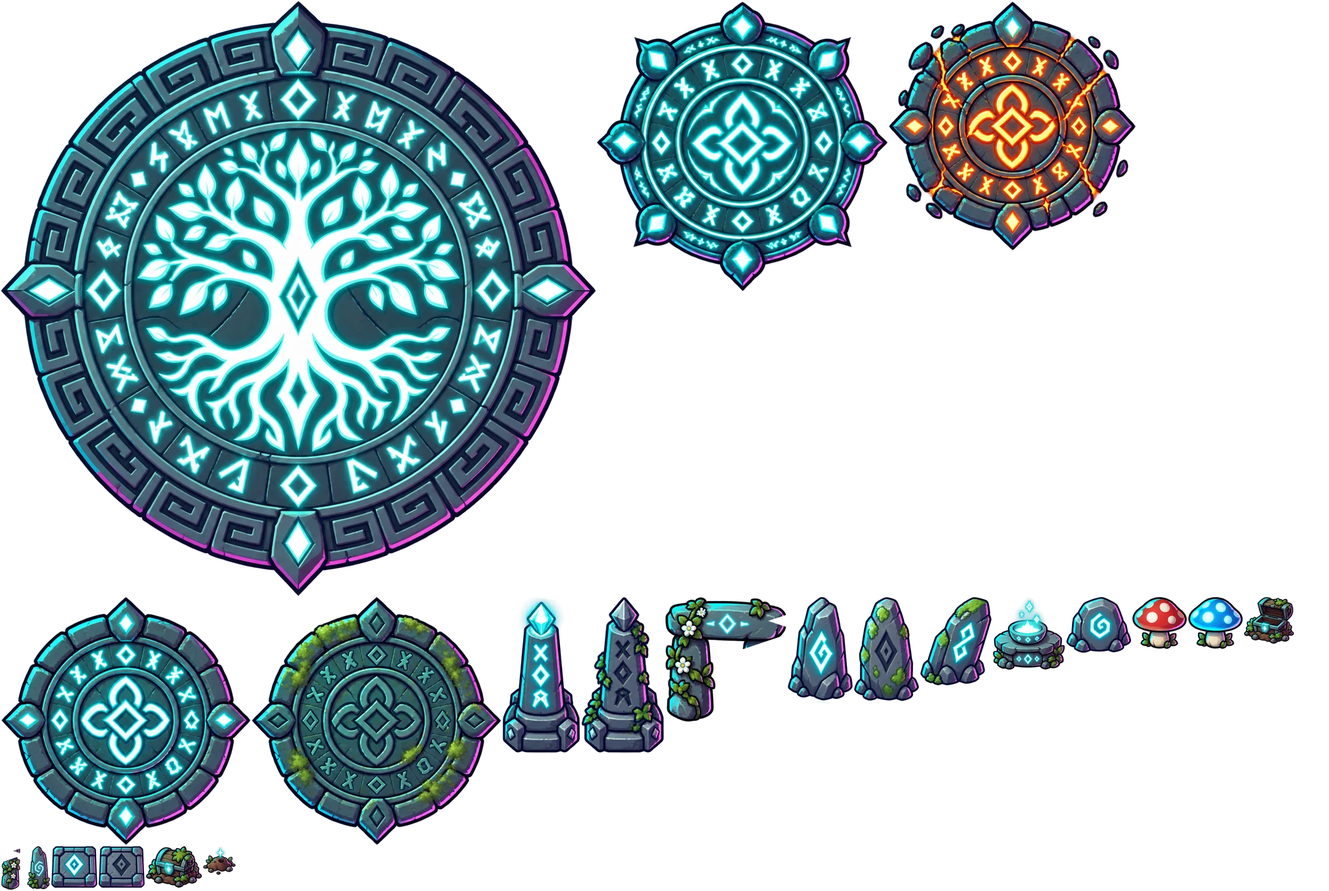
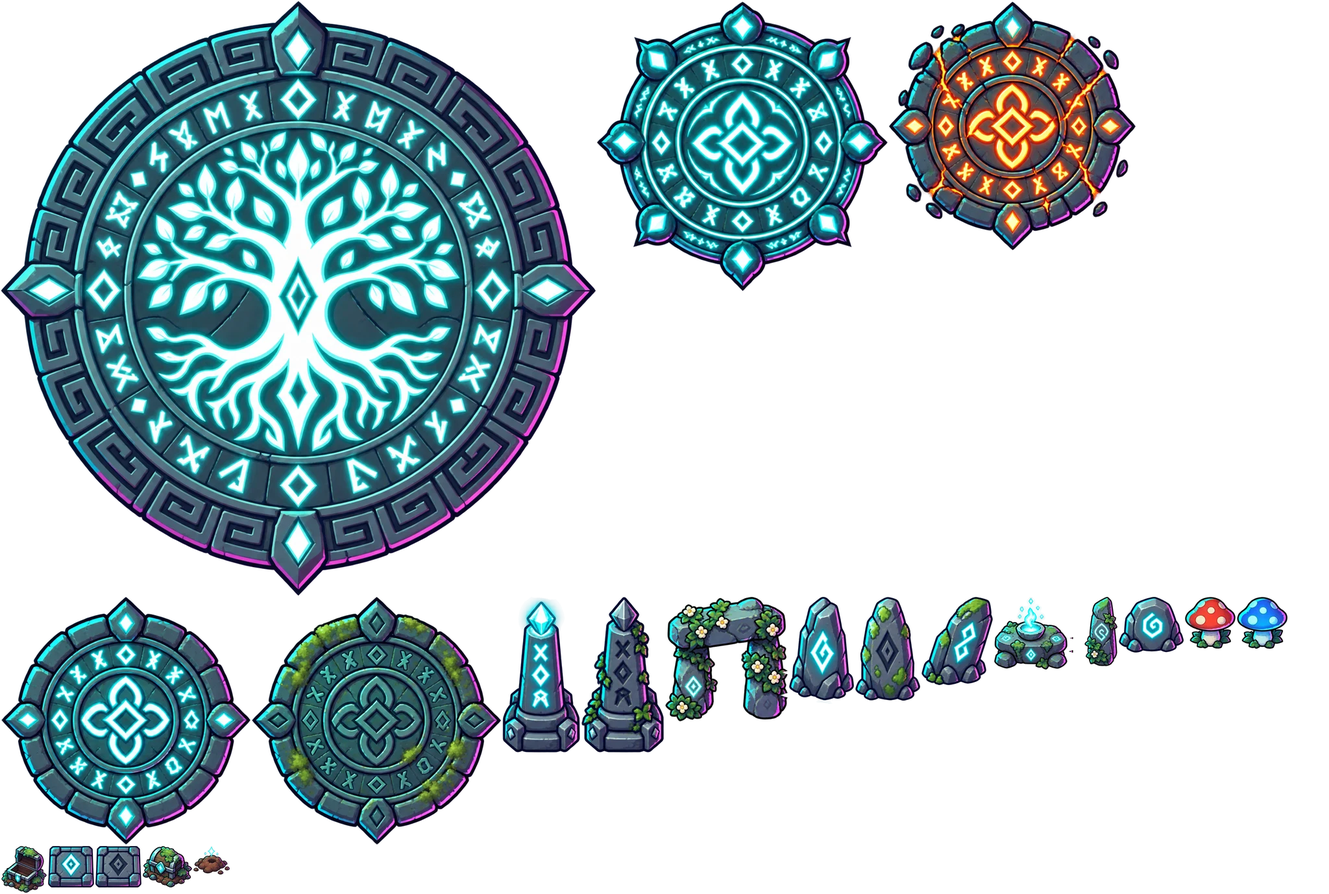
Round 34: armor as a share, boss hit floor, familiars follow the hero's lead, ward share, shield cap, rune-of-return death
- ZDiff.armor / ZDiff.hit: damage = attack x 100 / (100 + armorK x defense); armorK, bossHit, famBoss per difficulty
- familiars strike only engaged monsters (FAM_LEAD); area skills hurt only those
- ward absorbs up to a share of max health (cap 40 %); shield block capped at 50 %
- death screen default: design 6; henge sheet re-cut
- tests/test_round34.py (13 checks)

Claude-Session: https://claude.ai/code/session_01FdX1b6AxCqebDsLDVhkvCj

diff --git a/src/js/09d-familiars.js b/src/js/09d-familiars.js
@@ -18,7 +18,14 @@ var FAM_BY_SEC={1:'fam_grass',2:'fam_water',3:'fam_earth',4:'fam_fire'};
 var FAM_ICON={grass:'🌿',water:'💧',earth:'🪨',fire:'🔥'};
 Object.keys(SPIRIT_ELEMENTS).forEach(function(k){ SPIRIT_ELEMENTS[k].key=k; });
 // every familiar hit is source 'familiar' (monster counters in 07rb): kind proj | area, element, which familiar
-function _famHit(scene,fid,E,S,m,dmg,o){ return _heroHitMonster(scene,m,dmg,Object.assign({src:'familiar',el:E.key,fk:S.kind==='proj'?'proj':'area',fid:fid},o||{})); }
+// Round 34 (Kris) — "follow my lead": familiars strike only monsters the hero is fighting. A monster is ENGAGED when the hero hit it or it hit the hero
+// (mon._engT) in the last FAM_LEAD.secs seconds and it is within FAM_LEAD.far of him; a boss stays engaged for the whole fight once the first blow has landed.
+// A familiar's target must also be within FAM_LEAD.range of the hero. Familiar hits never engage anything. FAM_LEAD.on=false gives the old free-for-all.
+var FAM_LEAD={on:true,secs:5,range:220,far:350};
+function _famEngaged(m,c){ if(!FAM_LEAD.on)return true; if(!m||m.dead||!m._engT)return false; var d=_hbD(m,c.x,c.y); if(d>FAM_LEAD.far)return false; return !!(m.isBoss||(m.def&&m.def.boss))||Date.now()-m._engT<FAM_LEAD.secs*1000; }
+function _famTargets(c){ return c.monsters.filter(function(m){ return !m.dead&&_famEngaged(m,c)&&(!FAM_LEAD.on||_hbD(m,c.x,c.y)<=FAM_LEAD.range); }); }
+// familiar damage to a boss is cut by the difficulty's share (ZDIFF famBoss: 0.6 / 0.5 / 0.4 / 0.3)
+function _famHit(scene,fid,E,S,m,dmg,o){ if(m&&(m.isBoss||(m.def&&m.def.boss))&&typeof ZDiff!=='undefined')dmg*=ZDiff.cur().famBoss; return _heroHitMonster(scene,m,dmg,Object.assign({src:'familiar',el:E.key,fk:S.kind==='proj'?'proj':'area',fid:fid},o||{})); }
 // (skills: FAM_SKILLS in 07w-spirits.js, shared with the Lab)
 // ── data: the 4 familiars (names/looks follow the Lab pick) ──
 Object.keys(FAMILIARS).forEach(function(k){ delete FAMILIARS[k]; });
@@ -138,7 +145,7 @@ function _famFx(scene,m,S,E,mult){ if(m.dead)return; var f=S.fx;
   else if(f==='knock'||f==='push'){ var a=Math.atan2(m.y-scene._famOy,m.x-scene._famOx); for(var st=0,mv=0;mv<(f==='push'?80:45);mv+=6){ var nx=m.x+Math.cos(a)*6, ny=m.y+Math.sin(a)*6; if(!_heroMonsterCanStand(scene,nx,ny))break; m.x=nx; m.y=ny; } if(m.cont)m.cont.setPosition(m.x,m.y); m._lastX=m.x; m._lastY=m.y; }
   else if(f==='pull'){ var d=Math.hypot(scene._famOx-m.x,scene._famOy-m.y)||1, k=Math.min(60,d-24)/d; if(k>0){ var nx2=m.x+(scene._famOx-m.x)*k, ny2=m.y+(scene._famOy-m.y)*k; if(_heroMonsterCanStand(scene,nx2,ny2)){ m.x=nx2; m.y=ny2; if(m.cont)m.cont.setPosition(m.x,m.y); m._lastX=m.x; m._lastY=m.y; } } } }
 function _famRing(scene,x,y,r,col,dur){ var g=scene.add.circle(x,y,8,hexNum(col),0.35).setStrokeStyle(3,hexNum(col),0.9).setDepth(12.6); scene.tweens.add({targets:g,radius:r,alpha:0,duration:dur||450,onComplete:function(){ g.destroy(); }}); }
-function _famCast(scene,fid,S,v,c,ps,mult,E){ var mons=c.monsters.filter(function(m){ return !m.dead; }), dmg=(S.dmg||0)*mult; scene._famOx=c.x; scene._famOy=c.y;
+function _famCast(scene,fid,S,v,c,ps,mult,E){ var mons=_famTargets(c), dmg=(S.dmg||0)*mult; scene._famOx=c.x; scene._famOy=c.y;
   if(S.kind==='proj'){ var t=_famNearest(c,mons,v,S.range,scene); if(!t)return false;
     if(!scene._famProj2)scene._famProj2=[]; var a=Math.atan2(t.y-v.y,t.x-v.x), sp=S.pierce?420:320;
     var dot=scene.add.image(v.x,v.y,'glow').setBlendMode(Phaser.BlendModes.ADD).setTint(hexNum(E.col)).setScale(S.fx==='splash'?0.3:0.2).setDepth(12.7), core=(typeof ZShot!=='undefined'&&ZShot.make(scene,ZShot.famKind(E),v.x,v.y,a,12.71,S.fx==='splash'?0.85:0.6))||scene.add.circle(v.x,v.y,S.fx==='splash'?5:3,hexNum(E.core),1).setDepth(12.71);
@@ -152,7 +159,7 @@ function _famCast(scene,fid,S,v,c,ps,mult,E){ var mons=c.monsters.filter(functio
     if(S.heal&&!_heroInCombat(ps))_famHeal(scene,c,ps,S.heal); return true; }
   if(S.kind==='heal'){ if(ps.hp>=ps.maxHp||ps.hp<=0||_heroInCombat(ps))return false; var n=S.ticks||1, i=0; var tick=function(){ if(ps.hp>0&&!_heroInCombat(ps))_famHeal(scene,_heroCtx(scene),ps,S.pct); }; tick();
     if(n>1)scene.time.addEvent({delay:1000,repeat:n-2,callback:tick}); return true; }
-  if(S.kind==='ward'){ var st=ps._famWard||(ps._famWard={}); if(st[fid]&&st[fid].ready)return false; st[fid]={ready:true,col:E.col,name:S.name}; _heroFloat(scene,c.x,c.y-36,'✨ '+S.name,E.col); return true; }
+  if(S.kind==='ward'){ var st=ps._famWard||(ps._famWard={}); if(st[fid]&&st[fid].ready)return false; st[fid]={ready:true,col:E.col,name:S.name,pct:_famWardPct(ps,fid,S)}; _heroFloat(scene,c.x,c.y-36,'✨ '+S.name,E.col); return true; }
   if(S.kind==='rain'){ var ts=mons.filter(function(m){ return _hbD(m,c.x,c.y)<=S.range&&_heroLOS(scene,c.x,c.y,_hbP(m,c.x,c.y).x,_hbP(m,c.x,c.y).y); }); if(!ts.length)return false; ts.sort(function(a,b){ return Math.hypot(a.x-c.x,a.y-c.y)-Math.hypot(b.x-c.x,b.y-c.y); });
     for(var k=0;k<S.n;k++){ (function(t2,delay){ var x=t2.x+(k?(Math.random()-0.5)*40:0), y=t2.y+(k?(Math.random()-0.5)*40:0); var rock=scene.add.circle(x-40,y-160,9,hexNum(E.deep),1).setStrokeStyle(2,hexNum(E.col),1).setDepth(12.7);
       scene.tweens.add({targets:rock,x:x,y:y,duration:420,delay:delay,ease:'Quad.easeIn',onComplete:function(){ rock.destroy(); _famRing(scene,x,y,S.rad,E.col,300); if(scene.cameras&&scene.cameras.main)scene.cameras.main.shake(90,0.004);
@@ -172,9 +179,12 @@ var FAM_COMBAT_S=6;
 function _heroInCombat(ps){ return !!(ps&&ps._cbT&&Date.now()-ps._cbT<FAM_COMBAT_S*1000); }
 function _heroCombatMark(ps){ if(ps)ps._cbT=Date.now(); }
 function _famHeal(scene,c,ps,pct){ var h=Math.max(1,Math.round(ps.maxHp*pct)); ps.hp=Math.min(ps.maxHp,ps.hp+h); _heroFloat(scene,c.x,c.y-30,'+'+h+' HP','#80ff90'); var ws=_heroWS(); if(ws&&ws._emitUI)ws._emitUI(); }
-// wards: refund the next hit
+// Round 34 (Kris): a ward no longer swallows a whole hit. It absorbs up to a share of the hero's max health: 12 % + 3 % per familiar level
+// (15 % at level 1, 30 % at level 6) + 2 % for each step the ward skill sits up the familiar's skill list, never more than 40 %.
+function _famWardPct(ps,fid,S){ var L=_famLevel(ps,fid), list=FAM_SKILLS[FAM_EL[fid]]||[], i=Math.max(0,list.indexOf(S)); return Math.min(0.4,0.12+0.03*L+0.02*i); }
+// wards: give back part of the next hit
 function _famWardTick(scene,c,ps,dt){ if(ps._cbHp!==undefined&&ps.hp<ps._cbHp&&ps.hp>0)_heroCombatMark(ps); ps._cbHp=ps.hp; var st=ps._famWard; if(!st){ ps._famLastHp=ps.hp; return; } var ready=Object.keys(st).filter(function(k){ return st[k]&&st[k].ready&&_heroFamiliarActive(ps,k)&&_famSt(k).ko<=0&&_famActiveSkills(ps,k).some(function(o){ return o.S.kind==='ward'; }); });
-  if(ready.length&&ps._famLastHp!==undefined&&ps.hp<ps._famLastHp&&ps.hp>0&&!ps.godMode){ var lost=ps._famLastHp-ps.hp; ps.hp=ps._famLastHp; var w=st[ready[0]]; w.ready=false; _heroFloat(scene,c.x,c.y-36,'🛡 '+w.name+' blocked '+lost,w.col); }
+  if(ready.length&&ps._famLastHp!==undefined&&ps.hp<ps._famLastHp&&ps.hp>0&&!ps.godMode){ var lost=ps._famLastHp-ps.hp, w=st[ready[0]], back=Math.min(lost,Math.max(1,Math.round(ps.maxHp*(w.pct||0.15)))); ps.hp+=back; w.ready=false; _heroFloat(scene,c.x,c.y-36,'🛡 '+w.name+' absorbed '+back+(back<lost?' of '+lost:''),w.col); }
   ps._famLastHp=ps.hp;
   if(ready.length){ var col=st[ready[0]].col; if(!scene._famBubble||!scene._famBubble.active)scene._famBubble=scene.add.circle(c.x,c.y-12,22,hexNum(col),0.1).setStrokeStyle(1.5,hexNum(col),0.7).setDepth(12.6); scene._famBubble.setPosition(c.x,c.y-12).setAlpha(0.7+0.3*Math.sin(Date.now()/300)); }
   else if(scene._famBubble){ scene._famBubble.destroy(); scene._famBubble=null; } }
@@ -187,7 +197,7 @@ function _famHudTick(scene,fams,ps,dt){ scene._famHudT=(scene._famHudT||0)-dt; i
     return '<div class="fh'+(st.ko>0?' out':'')+'" style="border-color:'+E.col+'" title="'+f.n+(S?' — special: '+S.name+' (change it in the familiar card, N → ⓘ)':'')+(_famSlotK(ps,fid)<1?' — slot '+(_heroActiveFamiliars(ps).indexOf(fid)+1)+': hits at '+Math.round(_famSlotK(ps,fid)*100)+'% (each extra familiar hits softer)':'')+'" onclick="showFamiliarInfo(\''+fid+'\')"><span class="ic">'+f.icon+'</span><span class="tx"><b>'+(S?S.name:f.n)+(_famSlotK(ps,fid)<1?' <small style="opacity:.7">'+Math.round(_famSlotK(ps,fid)*100)+'%</small>':'')+'</b>'+state+'</span><i style="width:'+Math.round((1-pct)*100)+'%;background:'+E.col+'"></i></div>'; }).join(''); }
 function _heroSeaSprite(){}   // (old Sea Sprite passive — now the water spirit's Tide Ward)
 // projectiles (pierce + follow)
-function _heroFamProjTick(scene,dt){ if(!scene._famProj2||!scene._famProj2.length)return; var mons=_heroCtx(scene).monsters;
+function _heroFamProjTick(scene,dt){ if(!scene._famProj2||!scene._famProj2.length)return; var cx0=_heroCtx(scene), mons=cx0.monsters.filter(function(m){ return _famEngaged(m,cx0); });      // a shot in flight passes through monsters the hero is not fighting
   scene._famProj2=scene._famProj2.filter(function(p){ p.life-=dt; var kill=function(){ p.vis.destroy(); p.glow.destroy(); return false; };
     if(p.life<=0||!p.vis.active)return kill();
     if(p.tgt&&!p.tgt.dead){ var a=Math.atan2(p.tgt.y-p.y,p.tgt.x-p.x), sp=Math.hypot(p.vx,p.vy); p.vx=Math.cos(a)*sp; p.vy=Math.sin(a)*sp; }

diff --git a/src/js/04g-difficulty.js b/src/js/04g-difficulty.js
@@ -8,15 +8,24 @@
 // ═══════════════════════════════════════════════════════════════════════
 var ZDIFF=[
   {id:'hearthside',name:'Hearthside',icon:'🔥',tag:'A tale told by the fire',text:'Gentler foes, smaller packs and slower bosses with long warnings. For a first journey.',
-   bossHp:0.75,bossDmg:0.8,tele:1.25,every:1.25,speed:0.9,waves:0,stand:0.15,stag:0.8, monHp:0.8,monDmg:0.8,count:0.8,guards:-1,alphaAt:9,kin:0,reward:1},
+   bossHp:0.75,bossDmg:0.8,tele:1.25,every:1.25,speed:0.9,waves:0,stand:0.15,stag:0.8, monHp:0.8,monDmg:0.8,count:0.8,guards:-1,alphaAt:9,kin:0,reward:1, armorK:2,bossHit:0.07,famBoss:0.6},
   {id:'wayfarer',name:'Wayfarer',icon:'🧭',tag:'The road as it was meant to be walked',text:'The balanced journey: the game as it has played until now.',
-   bossHp:1,bossDmg:1,tele:1,every:1,speed:1,waves:0,stand:0.15,stag:1, monHp:1,monDmg:1,count:1,guards:0,alphaAt:5,kin:0,reward:1},
+   bossHp:1,bossDmg:1,tele:1,every:1,speed:1,waves:0,stand:0.15,stag:1, monHp:1,monDmg:1,count:1,guards:0,alphaAt:5,kin:0,reward:1, armorK:1.5,bossHit:0.10,famBoss:0.5},
   {id:'shieldbearer',name:'Shieldbearer',icon:'🛡',tag:'For proven warriors',text:'Bosses have half again the health, warn less and strike sooner. Monsters are tougher and come in bigger packs.',
-   bossHp:1.5,bossDmg:1.25,tele:0.85,every:0.85,speed:1.1,waves:0,stand:0.2,stag:1.15, monHp:1.3,monDmg:1.2,count:1.25,guards:1,alphaAt:4,kin:1,reward:1.15},
+   bossHp:1.5,bossDmg:1.25,tele:0.85,every:0.85,speed:1.1,waves:0,stand:0.2,stag:1.15, monHp:1.3,monDmg:1.2,count:1.25,guards:1,alphaAt:4,kin:1,reward:1.15, armorK:1.2,bossHit:0.13,famBoss:0.4},
   {id:'ragnarok',name:'Ragnarök',icon:'🌋',tag:'The twilight of the realms',text:'Bosses have more than twice the health, barely warn, add an extra wave to their attacks and make their last stand early. Monsters hit hard and swarm.',
-   bossHp:2.2,bossDmg:1.5,tele:0.7,every:0.7,speed:1.2,waves:1,stand:0.3,stag:1.3, monHp:1.7,monDmg:1.45,count:1.5,guards:2,alphaAt:3,kin:2,reward:1.3}
+   bossHp:2.2,bossDmg:1.5,tele:0.7,every:0.7,speed:1.2,waves:1,stand:0.3,stag:1.3, monHp:1.7,monDmg:1.45,count:1.5,guards:2,alphaAt:3,kin:2,reward:1.3, armorK:1,bossHit:0.16,famBoss:0.3}
 ];
+// Round 34 (Kris): armor takes a SHARE of each hit instead of a fixed amount, so no monster is ever reduced to nothing and no armor makes a boss harmless.
+//   armorK   how much each point of defense counts: damage = attack × 100 / (100 + armorK × defense). Wayfarer with the best armor of realms 1–4
+//            (defense 24 / 42 / 62 / 85) lets through 74 / 61 / 52 / 44 % of a hit.
+//   bossHit  a boss's plain hit (× 1) always costs at least this share of the hero's max health, whatever he wears; a heavier attack costs in
+//            proportion (a × 1.3 slam 1.3 times as much, a × 0.25 aura tick a quarter), up to × 2.5.
+//   famBoss  how much of a familiar's damage a boss takes.
 var ZDiff={
+  armor:function(raw,def){ return raw*100/(100+ZDiff.cur().armorK*Math.max(0,def||0)); },
+  // the damage of one hit on the hero: raw attack, his defense, his max health, and for a boss how heavy the attack is (its multiple of the boss's attack; 0 = not a boss)
+  hit:function(raw,def,maxHp,bossM){ var d=ZDiff.armor(raw,def); if(bossM>0&&maxHp>0)d=Math.max(d,maxHp*ZDiff.cur().bossHit*Math.min(2.5,bossM)); return Math.max(1,Math.round(d)); },
   ps:function(){ try{ var ws=typeof _heroWS==='function'?_heroWS():null; return ws&&ws.playerState; }catch(e){ return null; } },
   lv:function(ps){ ps=ps||ZDiff.ps(); var d=ps&&ps.difficulty; return (d===0||d===1||d===2||d===3)?d:1; },
   cur:function(ps){ return ZDIFF[ZDiff.lv(ps)]; },

diff --git a/src/js/10-scene-world.js b/src/js/10-scene-world.js
@@ -1067,7 +1067,7 @@ class WorldScene extends Phaser.Scene{
       if(Math.hypot(pr.x-px,pr.y-py)<18&&!pr.hit&&(self.worldIFrames||0)<=0&&!self.playerState.godMode){
         pr.hit=true;pr.life=0;pr.vis.destroy();
         var def=self.calcPlayerStats().def;
-        var dmg=Math.max(1,pr.dmg-def+Math.floor(Math.random()*3));
+        var dmg=ZDiff.hit(pr.dmg+Math.floor(Math.random()*3),def,self.playerState.maxHp,0);
         dmg=self._applyShieldToDmg(dmg);
         if(dmg<=0){return false;}
         self.playerState.hp=Math.max(0,self.playerState.hp-dmg);
@@ -1252,7 +1252,7 @@ class WorldScene extends Phaser.Scene{
           // Damage scales down heavily for weak enemies: sec1→~1, sec2→~1-2, sec3→~2-3, boss→normal
           var baseAtk=mon.monAtk!==undefined?mon.monAtk:mdef.atk;
           var rawDmg=isBossType?Math.round(baseAtk*0.8):Math.ceil(baseAtk*0.2);
-          var dmg0=Math.max(1,rawDmg-def0+Math.floor(Math.random()*2));
+          var dmg0=ZDiff.hit(rawDmg+Math.floor(Math.random()*2),def0,self.playerState.maxHp,isBossType?0.8:0); mon._engT=Date.now(); self.playerState._lastFoe=mdef.name;
           if(!isBossType&&dmg0>3)dmg0=Math.ceil(dmg0*0.5); // hard cap for non-boss
           dmg0=self._applyShieldToDmg(dmg0);
           if(dmg0<=0){self._emitUI();return;}
@@ -1281,7 +1281,7 @@ class WorldScene extends Phaser.Scene{
           if(dist<90&&!self.playerState.godMode&&(self.worldIFrames||0)<=0){
             var def0s=self.calcPlayerStats().def;
             var effAtkS=mon.monAtk!==undefined?mon.monAtk:mdef.atk;
-            var dmgS=Math.max(1,Math.ceil(effAtkS*0.6)-def0s+Math.floor(Math.random()*2));
+            var dmgS=ZDiff.hit(Math.ceil(effAtkS*0.6)+Math.floor(Math.random()*2),def0s,self.playerState.maxHp,mdef.boss?0.6:0); mon._engT=Date.now(); self.playerState._lastFoe=mdef.name;
             dmgS=self._applyShieldToDmg(dmgS);
             if(dmgS<=0){self._emitUI();return;}
             self.playerState.hp=Math.max(0,self.playerState.hp-dmgS);
@@ -1304,7 +1304,7 @@ class WorldScene extends Phaser.Scene{
           var def=self.calcPlayerStats().def;
           var effAtk=mon.monAtk!==undefined?mon.monAtk:mdef.atk;
           var baseDmg=effAtk*0.4;
-          var dmg=Math.max(1,Math.ceil(baseDmg)-def+Math.floor(Math.random()*2));
+          var dmg=ZDiff.hit(Math.ceil(baseDmg)+Math.floor(Math.random()*2),def,self.playerState.maxHp,mdef.boss?0.4:0); mon._engT=Date.now(); self.playerState._lastFoe=mdef.name;
           if(!mdef.boss&&dmg>4)dmg=Math.ceil(dmg*0.5);
           dmg=self._applyShieldToDmg(dmg);
           if(dmg<=0){self._emitUI();return;}
@@ -1585,7 +1585,7 @@ class WorldScene extends Phaser.Scene{
     if(!ps.equip||!ps.equip.shield)return rawDmg;
     var si=ITEMS[ps.equip.shield]; if(!si)return rawDmg;
     var sdef=si.def||0;
-    var blockChance=0.15+sdef*0.02; // 15% + 2% per DEF point
+    var blockChance=Math.min(0.5,0.15+sdef*0.02); // 15% + 2% per DEF point, never more than half (round 34)
     if(Math.random()<blockChance){
       this._floatText(this.player.x,this.player.y-42,'🛡 BLOCKED!','#88ffcc');
       this._shieldFlash(true);

diff --git a/src/js/07w-spirits.js b/src/js/07w-spirits.js
@@ -220,18 +220,18 @@ var FAM_SKILLS={
     {name:'Healing Bloom',kind:'heal',cd:9,pct:0.06,text:'A flower of light opens at your feet and heals you 6% of your max health.'},
     {name:'Vine Snare',kind:'nova',cd:8,dmg:6,radius:110,fx:'root',t:2,text:'Vines burst from the ground around you and hold every enemy nearby for 2 s.'},
     {name:'Spore Cloud',kind:'nova',cd:7,dmg:4,radius:95,fx:'poison',t:4,text:'Releases glowing spores that poison enemies around you for 4 s.'},
-    {name:'Bark Ward',kind:'ward',cd:18,text:'A shell of living bark blocks the next hit you take (recharges in 18 s).'},
+    {name:'Bark Ward',kind:'ward',cd:18,text:'A shell of living bark absorbs the next hit you take, up to 15–40 % of your max health — more as the familiar grows (recharges in 18 s).'},
     {name:'Wild Growth',kind:'nova',cd:14,dmg:18,radius:150,fx:'root',t:1.5,heal:0.1,text:'The meadow rises: heavy damage to every enemy around you, roots them, and heals you 10%.'}],
   water:[
     {name:'Water Bolt',kind:'proj',cd:2.2,dmg:7,range:270,fx:'slow',t:2,text:'A bolt of water that slows the target by 40%.'},
-    {name:'Tide Ward',kind:'ward',cd:20,text:'A bubble blocks the next hit you take (recharges in 20 s).'},
+    {name:'Tide Ward',kind:'ward',cd:20,text:'A bubble absorbs the next hit you take, up to 15–40 % of your max health — more as the familiar grows (recharges in 20 s).'},
     {name:'Whirlpool',kind:'nova',cd:8,dmg:6,radius:130,fx:'pull',text:'A whirlpool drags nearby enemies in toward you and hurts them.'},
     {name:'Frost Lance',kind:'proj',cd:5,dmg:12,range:320,fx:'freeze',t:1.2,pierce:true,text:'A lance of ice that pierces a line of enemies and freezes them.'},
     {name:'Rain of Renewal',kind:'heal',cd:22,pct:0.03,ticks:5,text:'Soft rain heals you 3% every second for 5 s.'},
     {name:'Tidal Wave',kind:'wave',cd:13,dmg:20,len:220,wid:70,fx:'push',text:'A great wave rolls out where you face, crushing and pushing back everything in its path.'}],
   earth:[
     {name:'Stone Shard',kind:'proj',cd:2.6,dmg:9,range:240,fx:'knock',text:'Hurls a shard of stone that knocks the target back.'},
-    {name:'Stone Skin',kind:'ward',cd:14,text:'Your skin turns to stone: blocks the next hit (recharges in 14 s).'},
+    {name:'Stone Skin',kind:'ward',cd:14,text:'Your skin turns to stone: absorbs the next hit, up to 15–40 % of your max health — more as the familiar grows (recharges in 14 s).'},
     {name:'Quake',kind:'nova',cd:9,dmg:9,radius:115,fx:'stun',t:1.2,text:'Stamps the ground: enemies nearby are stunned.'},
     {name:'Boulder Toss',kind:'rain',cd:7,dmg:16,n:1,rad:55,range:280,text:'Lobs a boulder that smashes a group of enemies.'},
     {name:'Crystal Spikes',kind:'nova',cd:10,dmg:14,radius:140,fx:'slow',t:2,text:'A ring of crystal spikes erupts around you, hurting and slowing enemies.'},

diff --git a/src/js/09-monster-engine.js b/src/js/09-monster-engine.js
@@ -56,7 +56,8 @@ MX.A=function(scene){ if(scene._mxA)return scene._mxA; var W=_isOverworld(scene)
   A.float=function(x,y,t,c){ scene._floatText(x,y,t,c); };
   A.god=function(){ return !!A.ps().godMode; };
   A.hurt=function(raw,label,col,noIfr){ var ps=A.ps(); if(ps.godMode||ps.hp<=0)return false; if(!noIfr&&A.ifr()>0)return false; var P=A.p();
-    var S=MX.S(scene), df=(W?scene.calcPlayerStats().def:(calcStatsFromState(ps).def||0))||0, dmg=Math.max(1,Math.round(raw)-Math.floor(df*0.6)); if(S.markT>0)dmg=Math.ceil(dmg*1.25);
+    var S=MX.S(scene), df=(W?scene.calcPlayerStats().def:(calcStatsFromState(ps).def||0))||0, src=MX.striker(A), bm=src&&src.isBoss&&src.def&&src.def.atk>0?raw/src.def.atk:0, dmg=ZDiff.hit(raw,df,ps.maxHp,bm); if(S.markT>0)dmg=Math.ceil(dmg*1.25);
+    if(src){ src._engT=Date.now(); ps._lastFoe=src.def&&src.def.name; }      // the one who struck is now engaged (familiars may answer) and is named if the hero falls
     if(!noIfr)dmg=W?scene._applyShieldToDmg(dmg):_heroApplyShield(scene,ps,dmg,P.x,P.y); if(dmg<=0){ A.setIfr(0.4); return false; }
     ps.hp=Math.max(0,ps.hp-dmg); if(!noIfr)A.setIfr(0.6); A.float(P.x,P.y-30,'-'+dmg+(label?' '+label:''),col||'#ff4433');
     if(!noIfr){ var fl=document.getElementById('damage-flash'); if(fl){ fl.style.opacity='0.18'; clearTimeout(scene._flashT); scene._flashT=setTimeout(function(){fl.style.opacity='0';},300); } }
@@ -391,3 +392,9 @@ MX.overlay=function(scene,S){ var el=document.getElementById('mx-status'); if(!e
   var bl=S.blindT>0, sh=S.shrinkT>0, rv=S.revT>0;
   el.style.background=bl?'radial-gradient(circle at 50% 50%, rgba(0,0,0,0) 12%, rgba(5,5,15,.92) 34%)':rv?'radial-gradient(circle at 50% 50%, rgba(0,0,0,0) 55%, rgba(200,120,255,.22) 100%)':'none';
   var hero=scene.player?scene.player.sprite:scene.pSprite, small=sh||S.frogT>0; if(hero&&hero.setScale){ if(small){ if(hero._mxBase===undefined)hero._mxBase=hero.scaleX; hero.setScale(hero._mxBase*0.7); } else if(hero._mxBase!==undefined){ hero.setScale(hero._mxBase); hero._mxBase=undefined; } } };
+
+// Round 34: who is striking the hero right now? The monster whose turn is being run (MX.tick), else — for shots in flight, zones and timed boss
+// patterns — the boss of the fight if one is awake, else the nearest awake monster within 400 px.
+MX.striker=function(A){ if(MX._cur&&!MX._cur.dead)return MX._cur; var L=[], P; try{ L=A.list()||[]; P=A.p(); }catch(e){ return null; } var best=null, bd=400;
+  for(var i=0;i<L.length;i++){ var m=L[i]; if(!m||m.dead||!m._m||!m._m.aggro)continue; if(m.isBoss)return m; var d=Math.hypot(m.x-P.x,m.y-P.y); if(d<bd){ bd=d; best=m; } } return best; };
+(function(){ var t0=MX.tick; MX.tick=function(scene,mon,dt){ MX._cur=mon; try{ return t0(scene,mon,dt); } finally{ MX._cur=null; } }; })();

diff --git a/src/js/04h-scenery.js b/src/js/04h-scenery.js
@@ -38,7 +38,7 @@ var ZScn={
   // how much has arrived: [files in, files in all]
   progress:function(){ return [(ZScn._tot||0)-Math.max(0,ZScn._n||0),ZScn._tot||0]; },
   whenReady:function(f,ms){ if(ZScn.done||ZScn.off)return f(); var fired=false, go=function(){ if(!fired){ fired=true; f(); } }; ZScn._cb.push(go); setTimeout(go,ms||2500); ZScn.load(); },
-  SKIP:{rn_henge_tri:1,rn_henge_post:1},      // pieces whose sheet was cut badly (sc_rune_henge: the trilithon is cut in half) — the drawn ones stay until the sheet is redone
+  SKIP:{},      // ids to leave drawn while their sheet is being redone (none now: the henge sheet was re-rolled in round 34)
   has:function(id){ if(ZScn.off||ZScn.SKIP[id])return false; var it=ZScn.META.items[id]; return !!(it&&ZScn.img[it[0]]); },
   // the first of the ids that is painted (variants: pick by a number 0..1)
   pick:function(ids,r){ var L=ids.filter(ZScn.has); return L.length?L[Math.min(L.length-1,Math.floor((r||0)*L.length))]:null; },

diff --git a/src/js/21c-death.js b/src/js/21c-death.js
@@ -71,7 +71,7 @@ var ZDEATH={
 };
 var ZDeath={
   auto:false, busy:false,
-  pick:(function(){ try{ var v=parseInt(localStorage.getItem('zeldara_death'),10); return v>=1&&v<=10?v:1; }catch(e){ return 1; } })(),
+  pick:(function(){ try{ var v=parseInt(localStorage.getItem('zeldara_death'),10); return v>=1&&v<=10?v:6; }catch(e){ return 6; } })(),      // Kris chose design 6, the rune of return (round 34)
   set:function(n){ ZDeath.pick=Math.max(1,Math.min(ZDEATH.LOOKS.length,n|0)); try{ localStorage.setItem('zeldara_death',String(ZDeath.pick)); }catch(e){} },
   look:function(n){ return ZDEATH.LOOKS[(n||ZDeath.pick)-1]||ZDEATH.LOOKS[0]; },
   _cap:function(s){ s=String(s||''); return s.charAt(0).toUpperCase()+s.slice(1); },

diff --git a/src/js/12-scene-dungeon.js b/src/js/12-scene-dungeon.js
@@ -1296,7 +1296,7 @@ class DungeonScene extends Phaser.Scene{
     var ps=this.worldScene.playerState;
     if(ps.godMode)return;
     var def=calcStatsFromState(ps).def||0;
-    var dmg=Math.max(1,mon.def.atk-def+Math.floor(Math.random()*4-1));
+    var dmg=ZDiff.hit(mon.def.atk+Math.floor(Math.random()*4-1),def,ps.maxHp,(mon.isBoss||mon.def.boss)?1:0); mon._engT=Date.now(); ps._lastFoe=mon.def.name;
     dmg=_heroApplyShield(this, ps, dmg, this.px, this.py);
     if(dmg<=0){this.playerIFrames=0.5;return;}
     ps.hp=Math.max(0,ps.hp-dmg);this.playerIFrames=0.9;

diff --git a/src/js/02-hero-api.js b/src/js/02-hero-api.js
@@ -261,7 +261,7 @@ function _heroApplyShield(scene, ps, rawDmg, x, y){
   if(!ps.equip||!ps.equip.shield)return rawDmg;
   var si=ITEMS[ps.equip.shield]; if(!si)return rawDmg;
   var sdef=si.def||0;
-  var blockChance=0.15+sdef*0.02;
+  var blockChance=Math.min(0.5,0.15+sdef*0.02);      // never more than half (round 34)
   if(Math.random()<blockChance){
     if(scene._floatText)scene._floatText(x,y-42,'🛡 BLOCKED!','#88ffcc');
     _heroShieldFlash(scene,x,y,true);

diff --git a/tests/test_round34.py b/tests/test_round34.py
@@ -1,0 +1,61 @@
+"""Round 34 — Kris's combat choices: armor takes a share of each hit (per difficulty); a boss's hit always costs a set share of max health;
+familiars follow the hero's lead; a ward absorbs a share of max health (at most 40 %); shield block capped at 50 %; familiars do less to
+bosses (per difficulty); the death screen is the rune of return.   Run: python tests/test_round34.py"""
+import sys, os, json
+sys.path.insert(0, os.path.dirname(__file__))
+from harness import game
+res = []
+def check(n, ok, info=''):
+    res.append(bool(ok)); print(('PASS ' if ok else 'FAIL ') + n + ('  ' + str(info)[:460] if info != '' else ''), flush=True)
+with game(painted=False, lead=True) as g:
+    g.wait(1500)
+    r = g.js("""(()=>{ var ws=game.scene.getScene('World'), ps=ws.playerState, o={}; o.tab=ZDIFF.map(function(D){ return [D.armorK,D.bossHit,D.famBoss]; });
+      o.share=[24,42,62,85].map(function(d){ return Math.round(ZDiff.armor(100,d)); }); o.weak=ZDiff.hit(3,85,215,0); o.none=ZDiff.hit(20,0,100,0);
+      o.boss=[1,1.3,0.25,9].map(function(m){ return ZDiff.hit(28*m,90,215,m); }); o.bossNaked=ZDiff.hit(9,0,56,1);
+      o.lv=[0,1,2,3].map(function(L){ ps.difficulty=L; return [ZDiff.hit(28,85,215,0),ZDiff.hit(28,85,215,1)]; }); ps.difficulty=1; return o; })()""")
+    check('Difficulty table: armor counts for less and a boss hit for more as the level rises; familiars do less to bosses', r['tab'] == [[2, 0.07, 0.6], [1.5, 0.1, 0.5], [1.2, 0.13, 0.4], [1, 0.16, 0.3]], r['tab'])
+    check('Armor takes a share: the best armor of realms 1–4 lets 74 / 61 / 52 / 44 % through (Wayfarer); a weak monster still hurts a hero in the best armor; no armor = full damage', r['share'] == [74, 61, 52, 44] and r['weak'] >= 1 and r['none'] == 20, r)
+    check('A boss hit costs at least 10 % of max health on Wayfarer, heavier attacks in proportion, aura ticks a quarter; a hit that is bigger than the floor after armor is not reduced to it', r['boss'] == [22, 28, 5, 107] and r['bossNaked'] == 9, r)
+    check('Per difficulty: the same hit through the same armor grows from Hearthside to Ragnarök, and so does the boss floor', [x[0] for x in r['lv']] == sorted(x[0] for x in r['lv']) and r['lv'][0][0] < r['lv'][3][0] and [x[1] for x in r['lv']] == [15, 22, 28, 34], r['lv'])
+    # the real path: a monster's hit through A.hurt
+    r = g.js("""(()=>{ var ws=game.scene.getScene('World'), ps=ws.playerState, A=MX.A(ws), P=ws.player; ps.maxHp=200; ps.hp=200; ps.def=80; ws.worldIFrames=0;
+      var m=MX.spawn(ws,'thistle_hog',P.x+60,P.y,{q:1,temp:true}); ws.worldMonsters.push(m); m._m.aggro=true; var atk=m.def.atk;
+      MX._cur=m; A.hurt(atk,'','#fff'); MX._cur=null; var lost=200-ps.hp, eng=!!m._engT, foe=ps._lastFoe;
+      ps.hp=200; ws.worldIFrames=0; A.setIfr(0); m.isBoss=true; MX._cur=m; A.hurt(atk*1.3,'','#fff'); MX._cur=null; var lostB=200-ps.hp; m.isBoss=false; window._m34=m; ps.def=0; ps.hp=ps.maxHp;
+      return {atk:atk,lost:lost,eng:eng,foe:foe,lostB:lostB,striker:MX.striker(A)===m}; })()""")
+    check('In play: a thistle hog hits a hero with 80 defense for a share of its attack (not 1 by rule), is marked as engaged and named; as a boss its slam costs 13 % of max health', 1 <= r['lost'] <= r['atk'] and r['lost'] == max(1, round(r['atk'] * 100 / 220)) and r['eng'] and r['foe'] and r['lostB'] == 26 and r['striker'], r)
+    # follow my lead
+    r = g.js("""(()=>{ var ws=game.scene.getScene('World'), ps=ws.playerState, P=ws.player, c=_heroCtx(ws), m=window._m34, o={on:FAM_LEAD.on};
+      var far=MX.spawn(ws,'thistle_hog',P.x+300,P.y,{q:1,temp:true}); ws.worldMonsters.push(far); var idle=MX.spawn(ws,'thistle_hog',P.x-70,P.y,{q:1,temp:true}); ws.worldMonsters.push(idle); c=_heroCtx(ws);
+      delete m._engT; o.none=_famTargets(c).length;
+      _heroHitMonster(ws,m,1,{}); o.afterHeroHit=_famTargets(c).indexOf(m)>=0; o.idleLeft=_famTargets(c).indexOf(idle)<0;
+      var hp0=idle._hp; _famHit(ws,'fam_grass',{key:'grass',col:'#fff'},{kind:'proj'},idle,1,{}); o.famHitDoesNotEngage=!idle._engT;
+      m._engT=Date.now()-6000; o.lapsed=_famTargets(c).indexOf(m)<0;
+      far._engT=Date.now(); o.tooFar=_famTargets(c).indexOf(far)<0; far.x=P.x+200; o.inRange=_famTargets(c).indexOf(far)>=0;
+      m.isBoss=true; m._engT=Date.now()-60000; o.bossStays=_famTargets(c).indexOf(m)>=0; m.isBoss=false;
+      FAM_LEAD.on=false; o.offAll=_famTargets(c).length>=3; FAM_LEAD.on=true; window._far=far; window._idle=idle; return o; })()""")
+    check('Follow my lead: familiars have no target until the hero strikes; then only that monster; a familiar\'s own hit engages nothing', r['on'] and r['none'] == 0 and r['afterHeroHit'] and r['idleLeft'] and r['famHitDoesNotEngage'], r)
+    check('Engagement lapses after 5 s without an exchange; a target must be within 220 px of the hero; a boss stays engaged for the fight; the switch restores the old free-for-all', r['lapsed'] and r['tooFar'] and r['inRange'] and r['bossStays'] and r['offAll'], r)
+    r = g.js("""(()=>{ var ws=game.scene.getScene('World'), ps=ws.playerState, c=_heroCtx(ws), m=window._m34, E={key:'grass',col:'#80ff90',core:'#fff'}, S={name:'Thorn',kind:'nova',cd:5,dmg:4,radius:150};
+      [m,window._far,window._idle].forEach(function(x){ delete x._engT; x._hp=x.maxHp; }); ps.familiar='fam_grass'; ps.ownedFamiliars=['fam_grass'];
+      var a=_famCast(ws,'fam_grass',S,{x:c.x,y:c.y},c,ps,1,E); m._engT=Date.now(); var b=_famCast(ws,'fam_grass',S,{x:c.x,y:c.y},_heroCtx(ws),ps,1,E);
+      return {idleCast:a,cast:b,hurtM:m._hp<m.maxHp,idleUntouched:window._idle._hp===window._idle.maxHp}; })()""")
+    check('An area skill does not fire with nothing engaged, and when it fires it hurts only the engaged monster', not r['idleCast'] and r['cast'] and r['hurtM'] and r['idleUntouched'], r)
+    # familiar damage to bosses
+    r = g.js("""(()=>{ var ws=game.scene.getScene('World'), ps=ws.playerState, m=window._m34, E={key:'grass',col:'#fff'}, out=[]; m.monDef=0; if(m.def)m.def.def=0;
+      [1,3].forEach(function(L){ ps.difficulty=L; [false,true].forEach(function(b){ m.isBoss=b; m.maxHp=5000; m._hp=5000; if(m.hp!==undefined)m.hp=5000; _famHit(ws,'fam_grass',E,{kind:'area'},m,100,{pure:true}); out.push(5000-(m._hp!==undefined?m._hp:m.hp)); }); }); ps.difficulty=1; m.isBoss=false; return out; })()""")
+    check('A familiar\'s 100 damage does 100 to a monster and 50 to a boss on Wayfarer, 30 to a boss on Ragnarök', abs(r[0] - 100) <= 3 and abs(r[1] - 50) <= 2 and abs(r[2] - 100) <= 3 and abs(r[3] - 30) <= 2, r)
+    # ward
+    r = g.js("""(()=>{ var ws=game.scene.getScene('World'), ps=ws.playerState, c=_heroCtx(ws), o={}; var W=FAM_SKILLS.grass.filter(function(s){ return s.kind==='ward'; })[0], i=FAM_SKILLS.grass.indexOf(W);
+      ps.famLevels={fam_grass:1}; o.p1=_famWardPct(ps,'fam_grass',W); ps.famLevels={fam_grass:6}; o.p6=_famWardPct(ps,'fam_grass',W); o.cap=Object.keys(FAM_SKILLS).every(function(el){ return FAM_SKILLS[el].every(function(S){ return S.kind!=='ward'||_famWardPct({famLevels:{fam_grass:6,fam_water:6,fam_earth:6,fam_fire:6}},'fam_'+el,S)<=0.4; }); }); o.i=i;
+      ps.maxHp=100; ps.hp=100; ps._famWard={fam_grass:{ready:true,col:'#fff',name:'Bark Ward',pct:0.3}}; ps._famLastHp=100; ps.familiar='fam_grass'; ps.ownedFamiliars=['fam_grass'];
+      var st=_famSt('fam_grass'); st.ko=0; var as=_famActiveSkills; _famActiveSkills=function(){ return [{S:W,i:i}]; }; ps.hp=30; _famWardTick(ws,c,ps,0.016); o.afterBig=ps.hp;
+      ps._famWard.fam_grass.ready=true; ps.hp=100; ps._famLastHp=100; ps.hp=90; _famWardTick(ws,c,ps,0.016); o.afterSmall=ps.hp; _famActiveSkills=as; delete ps._famWard; ps.hp=ps.maxHp; return o; })()""")
+    check('Ward: absorbs a share of max health that grows with the familiar\'s level and never passes 40 %; a 70-point hit through a 30 % ward costs 40, a small hit is absorbed whole', abs(r['p1'] - (0.15 + 0.02 * r['i'])) < 1e-6 and r['p6'] > r['p1'] and r['p6'] <= 0.4 and r['cap'] and r['afterBig'] == 60 and r['afterSmall'] == 100, r)
+    # shield
+    r = g.js("""(()=>{ var ws=game.scene.getScene('World'), ps=ws.playerState, n=0, N=4000; ps.equip.shield='aegis'; ws._shielding=true; var rnd=Math.random, seq=0; Math.random=function(){ seq=(seq+0.6180339887)%1; return seq; };
+      for(var i=0;i<N;i++){ if(ws._applyShieldToDmg(10)===0)n++; } var a=n/N; n=0; for(var j=0;j<N;j++){ if(_heroApplyShield(ws,ps,10,0,0)===0)n++; } Math.random=rnd; ws._shielding=false; delete ps.equip.shield; return [a,n/N,ITEMS.aegis.def]; })()""")
+    check('Shield: the best shield (Aegis, 16 defense: 47 % by the formula) and any stronger one never block more than half the hits', 0.44 <= r[0] <= 0.5 and 0.44 <= r[1] <= 0.5, r)
+    check('Death screen: the rune of return is the one in use', g.js("ZDeath.pick===6&&ZDeath.look().id==='rune'"))
+    check('No page errors', not g.errs, g.errs[:3])
+print('%d/%d passed' % (sum(res), len(res))); sys.exit(0 if all(res) else 1)

diff --git a/tests/test_round33.py b/tests/test_round33.py
@@ -36,7 +36,7 @@ with game(painted=True) as g:
     check('Familiars heal when all is calm, and not while the hero fights (6 s after his last hit given or taken); the last-stand heal waits too', r['calm'] and r['hpCalm'] == 56 and not r['fight'] and r['hpFight'] == 50 and not r['lastFight'] and r['lastCalm'] and r['hpLast'] == 50 and not r['in'], r)
     # death
     r = g.js("(()=>{ var bad=[]; ZDEATH.LOOKS.forEach(function(L,i){ [84,0].forEach(function(gold){ var T=ZDeath.text(L,{area:'the tower',foe:'Goblin King',gold:gold,level:5,fam:null}); if(!T.title||!T.btn||!T.lines.length||!T.wake||/\\{/.test([T.title,T.sub,T.gold,T.wake,T.btn].concat(T.lines).join(' '))||(gold&&T.gold.indexOf('84')<0)||(!gold&&/\\d+ gold/.test(T.gold)))bad.push((i+1)+'/'+gold); if(gold&&T.bill&&T.bill.reduce(function(s,b){return s+b[1];},0)!==84)bad.push('bill'+(i+1)); }); }); return {n:ZDEATH.LOOKS.length,bad:bad,pick:ZDeath.pick,auto:ZDeath.auto}; })()")
-    check('Ten death designs, each with a title, a story, the gold lost (or a line for an empty purse), what you wake with and a button', r['n'] == 10 and r['bad'] == [] and r['pick'] == 1 and r['auto'] is True, r)
+    check('Ten death designs, each with a title, a story, the gold lost (or a line for an empty purse), what you wake with and a button', r['n'] == 10 and r['bad'] == [] and r['pick'] == 6 and r['auto'] is True, r)
     g.js("ZDeath.auto=false")
     a = g.js("(()=>{ var ws=game.scene.getScene('World'), ps=ws.playerState; ps.gold=500; ps.maxHp=100; ps._lastFoe='Meadow Goblin'; ps.hp=0; ws.player.x+=900; ws._worldPlayerDied(); return {gold:ps.gold,hp:ps.hp,hold:ZDeath._hold,blocked:_gameBlocked(),fx:!!document.getElementById('zdeath-fx'),x:ws.player.x}; })()")
     g.wait(2300)
@@ -46,6 +46,6 @@ with game(painted=True) as g:
     check('Dying: first the effect over the screen while the game holds still, nothing taken yet', a['gold'] == 500 and a['hold'] and a['blocked'] and a['fx'], a)
     check('Then the pop-up: 10 % of the gold gone and named with the foe, the hero in the village at 25 % health, the game paused', b['gold'] == 450 and b['hp'] == 25 and b['shown'] and b['paused'] and '50' in b['txt'] and 'eadow' in b['txt'] and b['home'], {k: (v if k != 'txt' else v[:120]) for k, v in b.items()})
     check('The button closes it: the game runs again and the screen is clear', c == {'shown': 'none', 'paused': False, 'busy': False, 'dying': False, 'fx': False, 'filter': ''}, c)
-    check('The Dev panel can choose a design and preview it', g.js("(function(){ sbDeathPick(); var t=document.getElementById('sb-death').textContent; ZDeath.set(1); sbDeathInit(); return /Death screen: 2/.test(t); })()"))
+    check('The Dev panel can choose a design and preview it', g.js("(function(){ sbDeathPick(); var t=document.getElementById('sb-death').textContent; ZDeath.set(6); sbDeathInit(); return /Death screen: 7/.test(t); })()"))
     check('No page errors', not g.errs, g.errs[:3])
 print('%d/%d passed' % (sum(res), len(res))); sys.exit(0 if all(res) else 1)

diff --git a/tests/harness.py b/tests/harness.py
@@ -31,7 +31,7 @@ class G:
         return self.js("game.scene.getScenes(true).map(s=>s.sys.settings.key)")
 
 @contextlib.contextmanager
-def game(new=True, w=1280, h=800, save=None, painted=False, query=''):   # painted=False: the suites written for the stand-ins run with the painted sprites off (round 23)
+def game(new=True, w=1280, h=800, save=None, painted=False, query='', lead=False):   # lead=False: familiars attack anything in range, as the suites written before round 34 expect   # painted=False: the suites written for the stand-ins run with the painted sprites off (round 23)
     with sync_playwright() as p:
         b = p.chromium.launch(args=["--use-gl=swiftshader", "--enable-unsafe-swiftshader"])
         pg = b.new_page(viewport={"width": w, "height": h})
@@ -57,6 +57,7 @@ def game(new=True, w=1280, h=800, save=None, painted=False, query=''):   # paint
         pg.wait_for_timeout(1500)
         if not painted: pg.evaluate("(()=>{ try{ if(typeof ZAtlas!=='undefined')ZAtlas.off=true; if(typeof ZScn!==\'undefined\')ZScn.off=true; }catch(e){} })()")
         pg.evaluate("(()=>{ try{ if(typeof ZDeath!=='undefined')ZDeath.auto=true; }catch(e){} })()")   # deaths apply at once in the suites (no effect, no pop-up to click); test_round33 switches it back on
+        if not lead: pg.evaluate("(()=>{ try{ if(typeof FAM_LEAD!=='undefined')FAM_LEAD.on=false; }catch(e){} })()")
         pg.evaluate("game.loop.smoothStep=false")  # headless runs at low FPS; use real elapsed time
         g = G(pg, errs)
         if new is not None:
